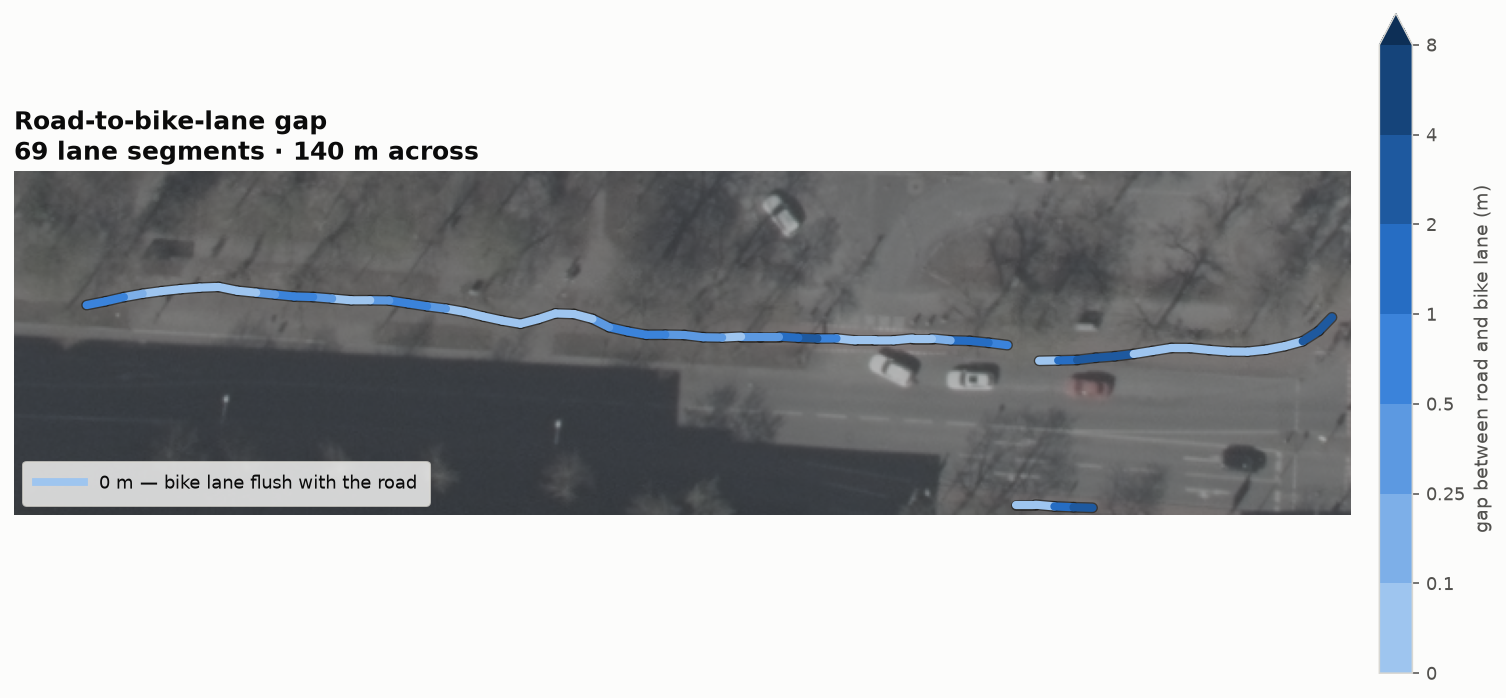
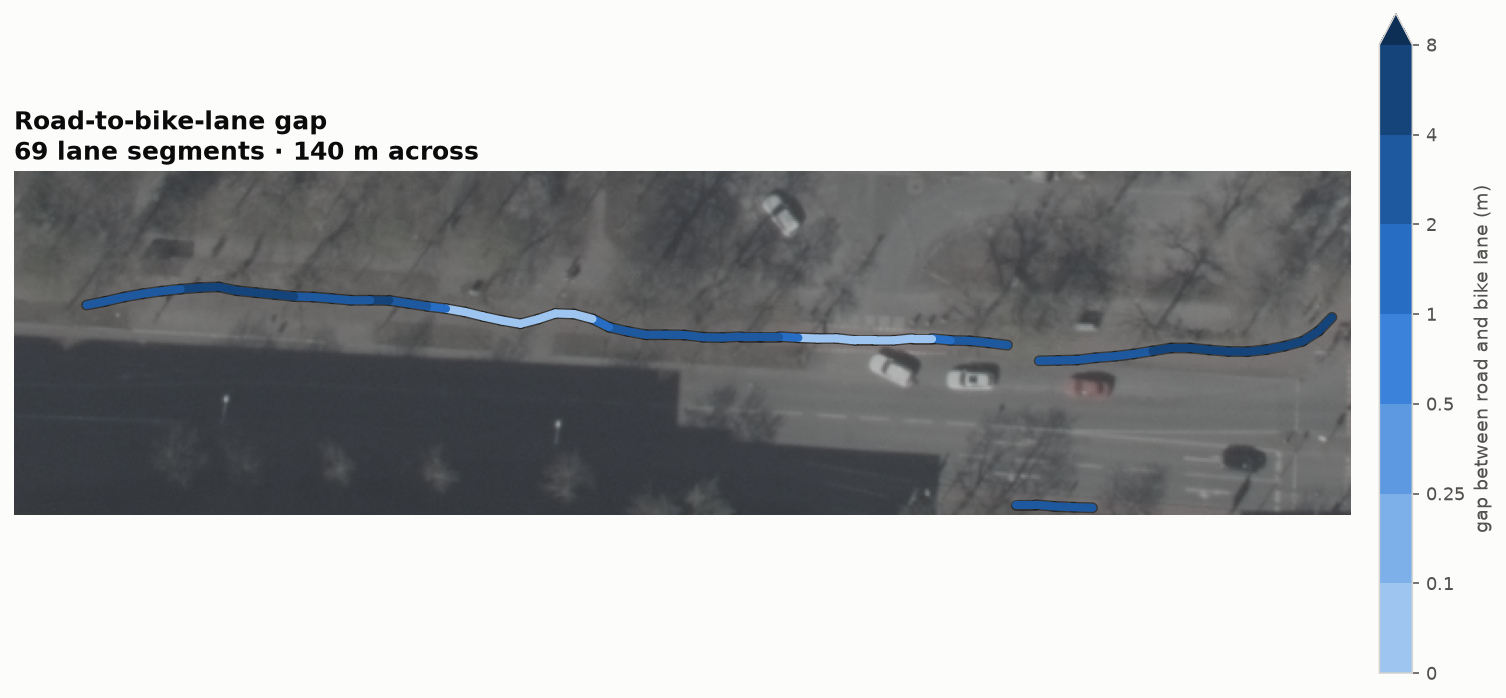
Added fix for bikelane gapping

diff --git a/scripts/measurement/cross_section.py b/scripts/measurement/cross_section.py
@@ -71,10 +71,39 @@ class CrossSection:
     runs: list[Run] = field(default_factory=list)
     shadow_fraction: float = 0.0
     shadow: np.ndarray | None = None
+    lane: np.ndarray | None = None  # the detected lane mask, sampled along this profile
 
     @property
     def material_edges(self) -> list[Edge]:
         return [e for e in self.edges if not e.is_illumination]
+
+    def lane_edge_m(self, lane_centre_m: float) -> float | None:
+        """Where the detected lane begins, in profile coordinates.
+
+        Read from the lane mask itself rather than from the spectral
+        segmentation. `run_at(...).start_m` was the obvious candidate and is
+        wrong: where road and lane are the same asphalt with no resolvable
+        edge between them, segmentation returns one run spanning both, whose
+        `start_m` is the profile's start rather than the lane's near edge --
+        which silently collapsed every separated cycle track to a 0 m gap.
+
+        Takes the contiguous block of lane mask containing `lane_centre_m`,
+        not the first block along the profile: a cross-section 12 m long can
+        clip a different lane fragment on its way out, and the block the
+        lane's own centreline sits in is the one being measured.
+
+        Returns None when the mask is absent or the centreline does not land
+        on it -- the caller then has no lane edge to measure from.
+        """
+        if self.lane is None or not self.lane.any():
+            return None
+        index = int(np.argmin(np.abs(self.distance_m - lane_centre_m)))
+        if not self.lane[index]:
+            return None
+        start = index
+        while start > 0 and self.lane[start - 1]:
+            start -= 1
+        return float(self.distance_m[start])
 
     def run_at(self, distance_m: float) -> Run | None:
         for run in self.runs:
@@ -240,19 +269,25 @@ def segment(distance, profile, edges, shadow=None, markings=None) -> list[Run]:
 
 
 def measure(bands, inverse_transform, origin_xy, direction, start_m, end_m,
-            shadow_mask=None) -> CrossSection:
+            shadow_mask=None, lane_mask=None) -> CrossSection:
     """Extract, find edges in, and segment one cross-section."""
-    extra = {"shadow": shadow_mask} if shadow_mask is not None else {}
+    extra = {}
+    if shadow_mask is not None:
+        extra["shadow"] = shadow_mask
+    if lane_mask is not None:
+        extra["lane"] = lane_mask
     distance, profile, sampled = sample(bands, inverse_transform, origin_xy, direction,
                                         start_m, end_m, extra)
     shadow = sampled.get("shadow")
+    lane = sampled.get("lane")
     markings = detect_markings(distance, profile)
     edges = detect_edges(distance, profile) + _marking_edges(markings)
     edges.sort(key=lambda e: e.distance_m)
     runs = segment(distance, profile, edges, shadow, markings)
     return CrossSection(distance_m=distance, bands=profile, edges=edges, runs=runs,
                         shadow_fraction=float(shadow.mean()) if shadow is not None else 0.0,
-                        shadow=shadow)
+                        shadow=shadow,
+                        lane=lane.astype(bool) if lane is not None else None)
 
 
 def edge_precision_m(sections: list[CrossSection], max_offset_m: float = 0.5) -> dict:

diff --git a/scripts/measurement/measure_bikelane_gap.py b/scripts/measurement/measure_bikelane_gap.py
@@ -96,7 +96,7 @@ def prepare_shadow(bands, transform, bounds, pixel_size_m, streets):
     return corrected, shadow, distance_to_boundary <= SHADOW_EDGE_MARGIN_M / pixel_size_m
 
 
-def measure_gaps(bands, transform, bounds, shadow, near_edge, streets, lanes):
+def measure_gaps(bands, transform, bounds, shadow, near_edge, streets, lanes, lane_mask=None):
     """One record per cross-section along every bike lane."""
     inverse = ~transform
     height, width = shadow.shape
@@ -138,7 +138,7 @@ def measure_gaps(bands, transform, bounds, shadow, near_edge, streets, lanes):
                                       lane_point.y - road_point.y]) / separation
                 section = measure(bands, inverse, (road_point.x, road_point.y), direction,
                                   -BEHIND_ROAD_M, separation + BEYOND_LANE_M,
-                                  shadow_mask=shadow)
+                                  shadow_mask=shadow, lane_mask=lane_mask)
                 sections.append(section)
 
                 lane_run = section.run_at(separation)
@@ -148,7 +148,16 @@ def measure_gaps(bands, transform, bounds, shadow, near_edge, streets, lanes):
 
                 if USE_OSM_ROAD_FALLBACK:
                     road_edge_m = road_width_m(street_highways[nearest_idx]) / 2.0
-                    lane_edge_m = lane_run.start_m
+                    # The lane's near edge comes from the detected lane mask,
+                    # not from `lane_run.start_m`. Where road and lane are the
+                    # same asphalt, segmentation merges them into one run whose
+                    # start is the profile's start, which collapsed every
+                    # separated cycle track to a spurious 0 m gap.
+                    mask_edge_m = section.lane_edge_m(separation)
+                    if mask_edge_m is None:
+                        skipped["unresolved"] += 1
+                        continue
+                    lane_edge_m = mask_edge_m
                     gap_m = max(lane_edge_m - road_edge_m, 0.0)
                     between = [r for r in section.runs
                                if r.end_m > road_edge_m and r.start_m < lane_edge_m and r is not lane_run]
@@ -228,7 +237,6 @@ def render_map(bands, transform, frame, lanes, out_path, pixel_size_m, figsize=(
     import matplotlib.pyplot as plt
     from matplotlib.colors import BoundaryNorm, LinearSegmentedColormap, ListedColormap
     from matplotlib.collections import LineCollection
-    from matplotlib.lines import Line2D
 
     surface, ink, muted = "#fcfcfb", "#0b0b0b", "#52514e"
     ramp = LinearSegmentedColormap.from_list("gap", ["#9ec5ef", "#2a78d6", "#0d2f56"])
@@ -292,15 +300,6 @@ def render_map(bands, transform, frame, lanes, out_path, pixel_size_m, figsize=(
         bar.set_label("gap between road and bike lane (m)", color=muted, fontsize=10)
         bar.ax.tick_params(colors=muted, labelsize=9)
         bar.outline.set_edgecolor("#d8d7d2")
-
-    legend = ax.legend(handles=[
-        Line2D([], [], color=ramp(0.0), lw=4.0,
-               label="0 m — bike lane flush with the road"),
-    ], frameon=True, fontsize=9.5, labelcolor=ink, loc="lower left",
-        borderpad=0.7, handlelength=2.6)
-    legend.get_frame().set_facecolor(surface)
-    legend.get_frame().set_edgecolor("#d8d7d2")
-    legend.set_zorder(6)
 
     span_m = bands.shape[2] * pixel_size_m
     ax.set_title(f"Road-to-bike-lane gap\n"

diff --git a/scripts/detection/bikelane_centerlines.py b/scripts/detection/bikelane_centerlines.py
@@ -33,6 +33,18 @@ from scripts.detection.edge_trace import BikeLaneEdgeDetector, _binned_centerlin
 from scripts.detection.texture_detector import bike_lane_detector
 
 
+def load_lane_mask(mask_path, window: Window | None = None) -> np.ndarray:
+    """The cached lane detection as a boolean array on the tile grid.
+
+    The gap measurement needs the mask itself, not just the centrelines
+    derived from it: the lane's near edge is read off this directly, because
+    the spectral segmentation cannot resolve a lane/road boundary where both
+    are the same asphalt.
+    """
+    with rasterio.open(mask_path) as src:
+        return np.asarray(src.read(1, window=window)) > 0.5
+
+
 def lane_centerlines_from_mask(
     mask_path,
     window: Window | None = None,

diff --git a/pipeline/detect.py b/pipeline/detect.py
@@ -54,6 +54,7 @@ from pipeline.config import (
 from scripts.detection.bikelane_centerlines import (
     detect_lane_centerlines,
     lane_centerlines_from_mask,
+    load_lane_mask,
 )
 from scripts.measurement.measure_bikelane_gap import (
     load_chunk,
@@ -88,8 +89,10 @@ def run_tile(stem: str, window: Window | None):
     if USE_CACHED_BIKELANE_MASK and cached_mask and cached_mask.exists():
         print(f"  [1/2] reading cached lane detection {cached_mask.name}", flush=True)
         lanes = lane_centerlines_from_mask(cached_mask, window)
+        lane_mask = load_lane_mask(cached_mask, window)
         print(f"        {len(lanes)} lane(s) in {time.time() - started:.1f} s")
     else:
+        lane_mask = None
         print("  [1/2] tracing bike lanes from the prefiltered imagery "
               "(no cached mask; this runs a coarse CNN scan)...", flush=True)
         lanes = detect_lane_centerlines(
@@ -112,7 +115,7 @@ def run_tile(stem: str, window: Window | None):
     corrected, shadow, near_edge = prepare_shadow(bands, transform, bounds,
                                                   pixel_size_m, streets)
     records, sections, skipped = measure_gaps(corrected, transform, bounds, shadow,
-                                              near_edge, streets, lanes)
+                                              near_edge, streets, lanes, lane_mask)
     print(f"        {len(records)} cross-sections measured "
           f"({skipped['far']} lane too far from a road, "
           f"{skipped['shadow']} at a shadow edge, {skipped['unresolved']} unresolved)")

diff --git a/scripts/diagnostics/generate_pipeline_report.py b/scripts/diagnostics/generate_pipeline_report.py
@@ -35,6 +35,7 @@ from pipeline.config import (
 from scripts.detection.bikelane_centerlines import (
     detect_lane_centerlines,
     lane_centerlines_from_mask,
+    load_lane_mask,
 )
 from scripts.measurement.osm_road_surface import osm_road_surface
 from scripts.detection.texture_detector import bike_lane_detector, road_detector
@@ -159,12 +160,14 @@ def _bikelane_gap(figure_path: Path) -> dict:
     cached_mask = BIKELANE_MASK_PATHS.get(TILE_STEM)
     if USE_CACHED_BIKELANE_MASK and cached_mask and cached_mask.exists():
         lanes = lane_centerlines_from_mask(cached_mask, WINDOW)
+        lane_mask = load_lane_mask(cached_mask, WINDOW)
     else:
         lanes = detect_lane_centerlines(OUTPUT_TILE_PATH, WINDOW)
+        lane_mask = None
 
     corrected, shadow, near_edge = prepare_shadow(bands, transform, bounds, pixel_size_m, streets)
     records, _sections, _skipped = measure_gaps(corrected, transform, bounds, shadow,
-                                                near_edge, streets, lanes)
+                                                near_edge, streets, lanes, lane_mask)
     frame = gpd.GeoDataFrame(records, crs=TILE_CRS)
 
     aspect = WINDOW.width / WINDOW.height

diff --git a/docs/pipeline_report.md b/docs/pipeline_report.md
@@ -7,7 +7,7 @@ pipeline change with:*
 uv run python -m scripts.diagnostics.generate_pipeline_report
 ```
 
-*Generated 2026-07-21 14:24 UTC from commit `c4daf3a`.*
+*Generated 2026-07-21 14:40 UTC from commit `7090105`.*
 
 Every stage below runs on the same fixed example region:
 
@@ -122,8 +122,8 @@ coverage, when a detected surface is worse than a sensible per-class guess. The 
 ![bikelane gap](figures/10_bikelane_gap.png)
 
 **On this frame:** 61 of 72 cross-sections measured, 11 in
-shadow; median gap 0.00 m, and 77% with no separating strip
-at all (47 contiguous, 12 asphalt, 2 red paint). That most lanes read 0 m is the real picture of the district: most cycling
+shadow; median gap 2.90 m, and 28% with no separating strip
+at all (32 abutting, 17 contiguous, 12 asphalt). That most lanes read 0 m is the real picture of the district: most cycling
 infrastructure here is painted onto or flush with the road. A gap only opens up where a verge,
 buffer or paved strip physically separates the two -- those are the coloured stretches.
 